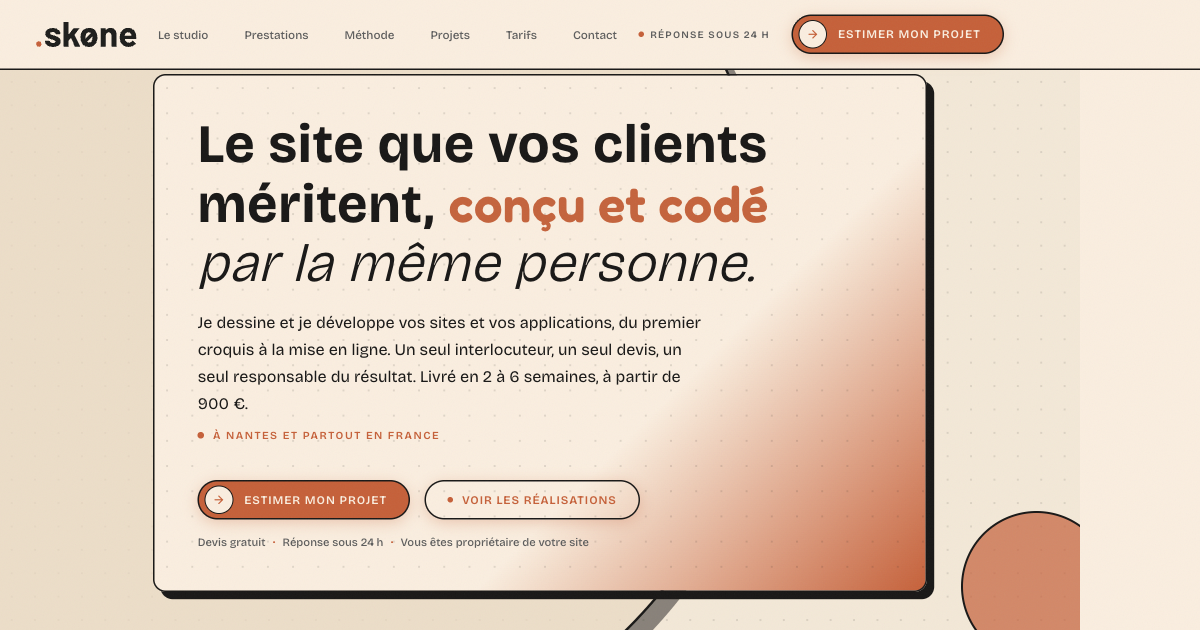
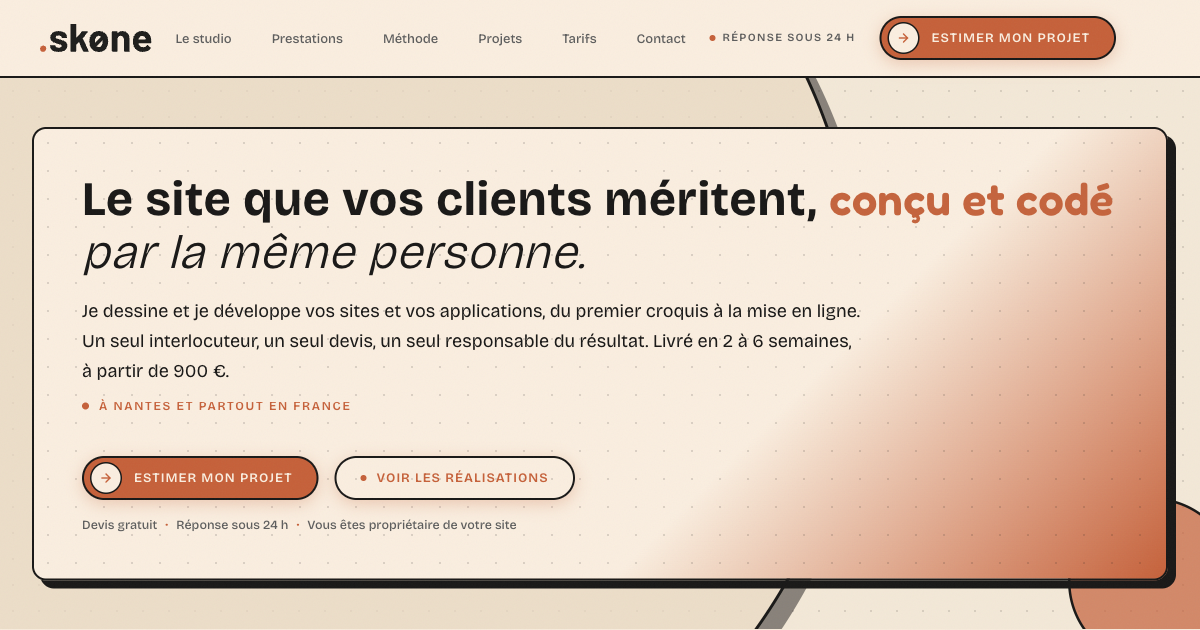
Hero : carte élargie, titre en deux lignes, bandeau retrouvé
La carte a toujours fait 860px de large — elle n'a jamais rétréci. C'est
le texte qui a grandi : l'ancien titre faisait 47 caractères, le nouveau
en fait 69. Même largeur, trois lignes de titre et quatre de statement,
591px de haut, et un bandeau défilant repoussé hors de l'écran dès que
la fenêtre descendait sous 812px.

La carte passe à 1300px et le titre à deux lignes, coupé après l'accent :
la revendication et « conçu et codé » tiennent la première, la chute en
italique la seconde. Le statement suit et passe de quatre lignes à trois.

Le corps du titre descend de 64 à 56px. C'est le maximum qui laisse « Le
site que vos clients méritent, conçu et codé » tenir sur une seule ligne
dans les 1204px utiles — mesuré et non calculé, le Fredoka de l'accent
étant plus large que le Bricolage et faussant l'estimation.

Résultat : la carte tombe de 591 à 473px, et le hero ne dépasse plus
jamais la fenêtre. Le bandeau est entièrement visible de 700 à 900px de
hauteur d'écran, avec des écarts symétriques de 42 à 143px.

Image de partage reprise. Le titre y est capturé à 48px : à 1200px de
large la carte est plus étroite qu'en desktop, et à 56 « codé » se
retrouvait seul sur sa ligne.

Claude-Session: https://claude.ai/code/session_01CbLq1SnZtaihfq1kwwGiJ9

diff --git a/src/style.css b/src/style.css
@@ -128,7 +128,11 @@ html, body { width: 100%; max-width: 100vw; }
   text-align: left;
   gap: 0;
   width: calc(100% - 64px);
-  max-width: 860px;
+  /* 1300 et non 860 : à 860 le titre tenait sur trois lignes et le statement
+     sur quatre, la carte montait à 591px de haut et poussait le bandeau
+     défilant hors de l'écran. Élargie, elle passe à 473px — le bandeau
+     redevient visible jusqu'à 694px de hauteur d'écran au lieu de 812. */
+  max-width: 1300px;
   margin-inline: auto;
   align-self: center;
   background:
@@ -150,7 +154,11 @@ html, body { width: 100%; max-width: 100vw; }
 
 .hero-tagline {
   font-family: var(--font-display);
-  font-size: clamp(34px, 5vw, 64px);
+  /* 56 et non 64 : c'est le corps maximal qui laisse « Le site que vos
+     clients méritent, conçu et codé » tenir sur une seule ligne dans les
+     1204px utiles de la carte. Mesuré, pas estimé — le Fredoka de l'accent
+     est plus large que le Bricolage et fausse le calcul. */
+  font-size: clamp(34px, 4.4vw, 56px);
   font-weight: 700;
   line-height: 1.1;
   letter-spacing: 0.02em;
@@ -173,7 +181,8 @@ html, body { width: 100%; max-width: 100vw; }
   font-weight: 400;
   line-height: 30px;
   color: var(--text);
-  max-width: 560px;
+  /* Suit l'élargissement de la carte : quatre lignes deviennent trois. */
+  max-width: 780px;
   margin-bottom: 26px;
   opacity: 0;
   transform: translateY(16px);

diff --git a/index.html b/index.html
@@ -250,8 +250,7 @@
   <section id="hero" data-deploy="exit">
     <div class="hero-top">
       <h1 class="hero-tagline">
-        Le site que vos clients<br>
-        méritent, <span class="hero-accent">conçu et codé</span><br>
+        Le site que vos clients méritent, <span class="hero-accent">conçu et codé</span><br>
         <span class="hero-italic">par la même personne.</span>
       </h1>
       <div class="hero-right">
